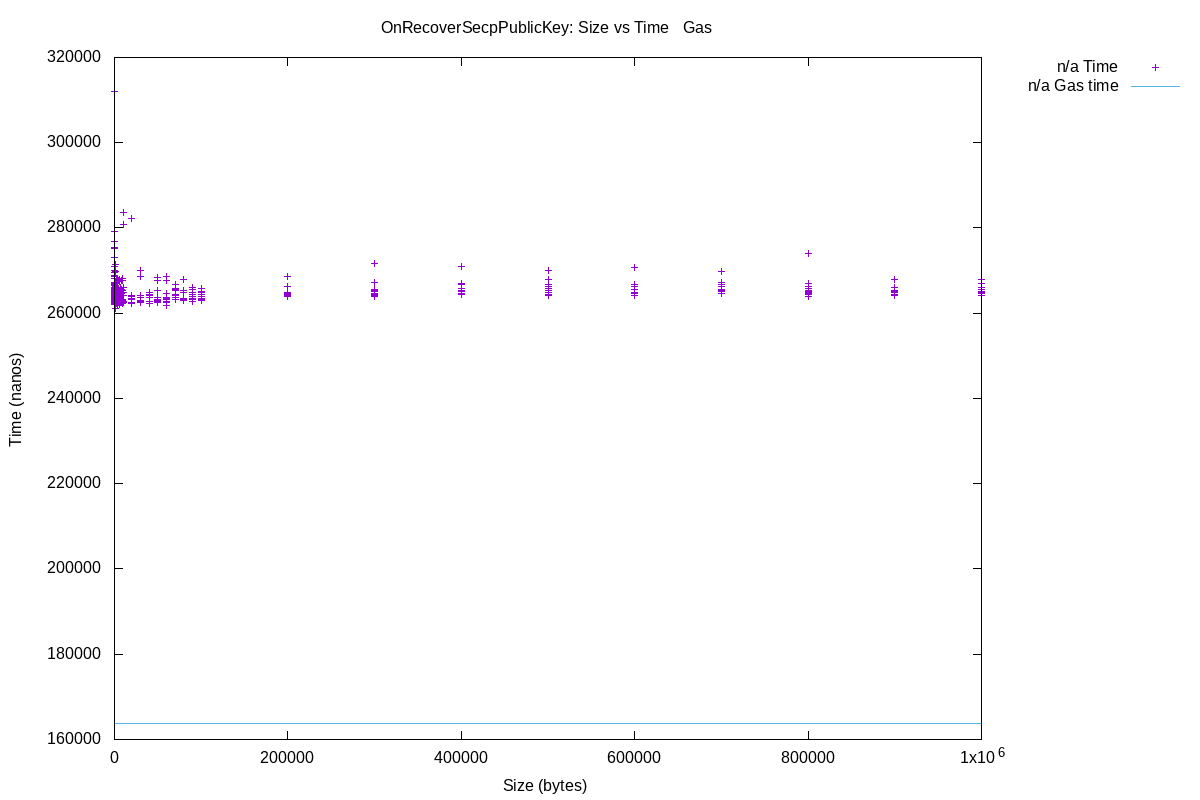
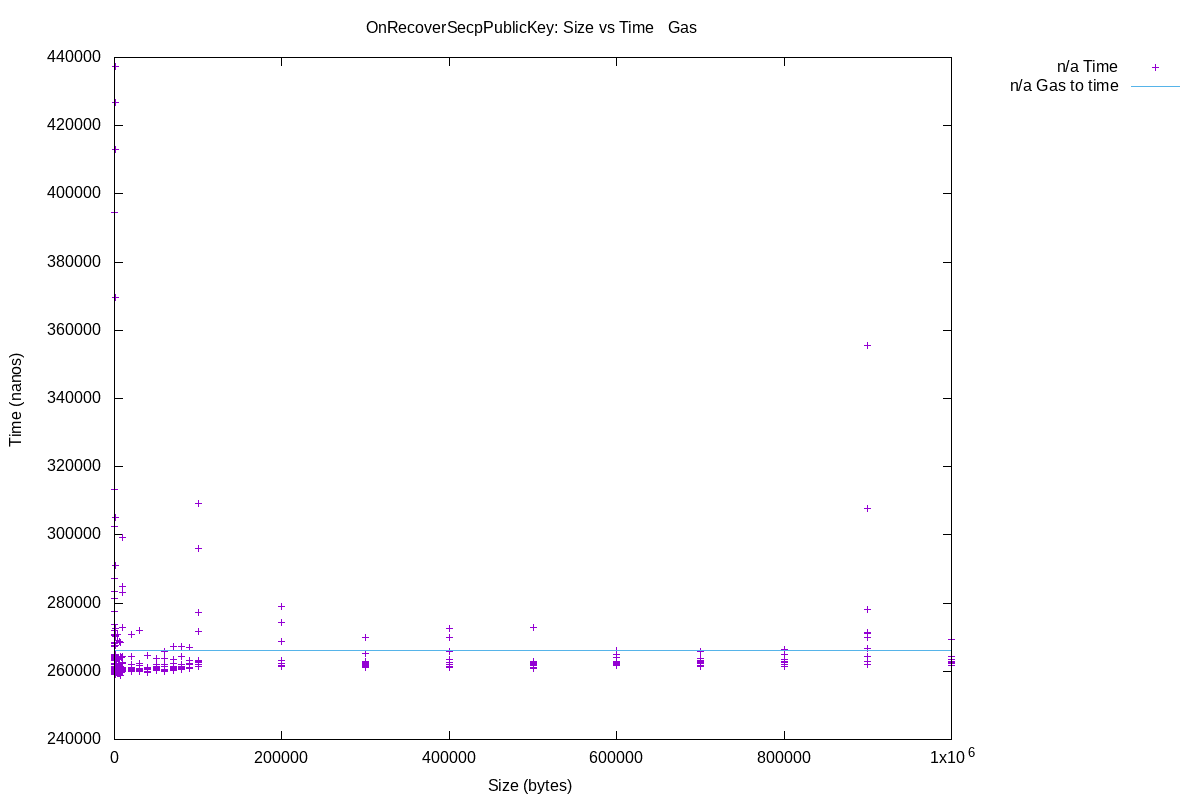
GAS-1279: Set Secp256k1 recovery price.

diff --git a/fvm/src/gas/price_list.rs b/fvm/src/gas/price_list.rs
@@ -331,7 +331,7 @@ lazy_static! {
 
         bls_sig_cost: Gas::new(16598605),
         secp256k1_sig_cost: Gas::new(1637292),
-        secp256k1_recover_cost: Gas::new(1637292), // TODO measure & revisit this value
+        secp256k1_recover_cost: Gas::new(2643945),
 
         hashing_base: Gas::new(31355),
         compute_unsealed_sector_cid_base: Gas::new(98647),
